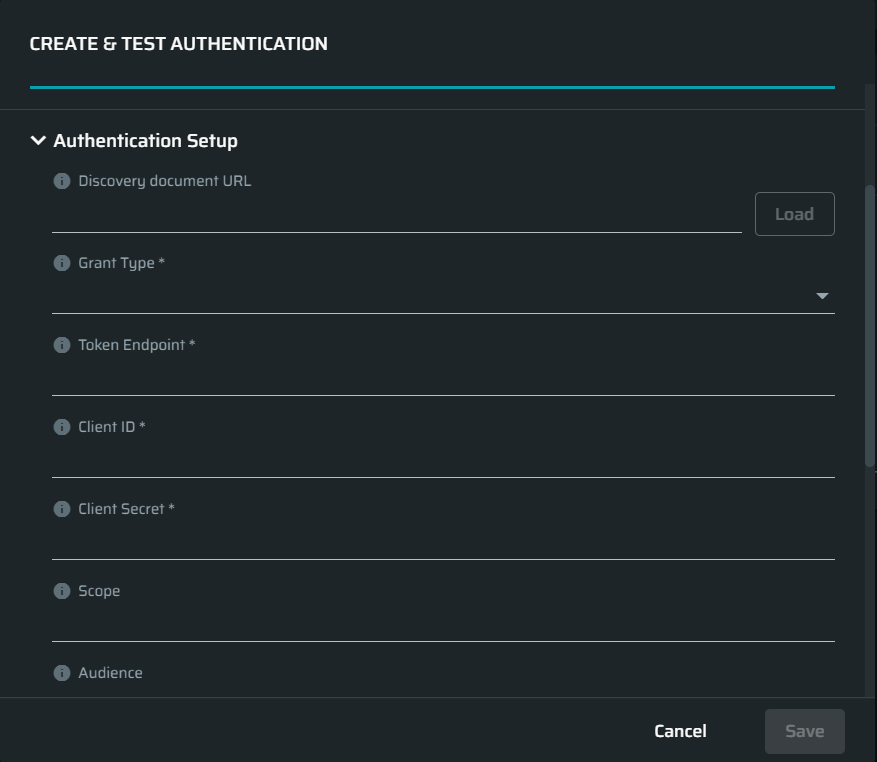
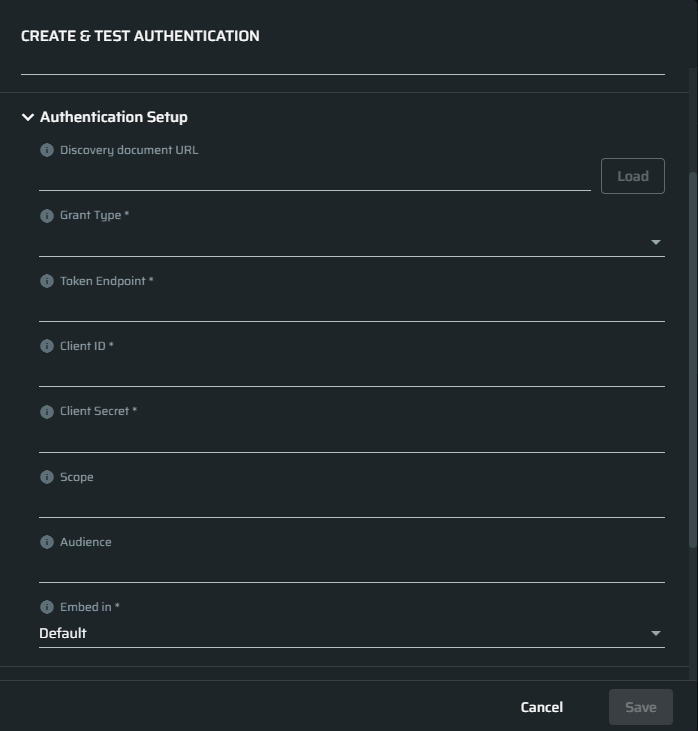
added OIDC embed field

diff --git a/docs/guide/np-web-ui/scanning/managing-authentications/types/openid-connect.md b/docs/guide/np-web-ui/scanning/managing-authentications/types/openid-connect.md
@@ -94,7 +94,7 @@ In this section, set up a valid authentication request to be sent to the end-poi
   <tr>
     <td width="25%"><b>Client Secret</b></td>
     <td width="75%" >
-        Enter your application client secret, used to authenticate to the Token Endpoint
+        Enter your application client secret, used to authenticate to the <b>Token Endpoint<b>.
     </td>
   </tr>
   <tr>
@@ -119,6 +119,11 @@ In this section, set up a valid authentication request to be sent to the end-poi
     <td width="25%"><b>Audience</b></td>
     <td width="75%" >
         <em>(Optional)</em> Enter the intended recipient of the token.
+    </td>
+    <tr>
+    <td width="25%"><b>Embed in</b></td>
+    <td width="75%" >
+        Select where to embed the token in the request:  body, header, or default location according to the OIDC specification.
     </td>
   </tr>
 </table>
